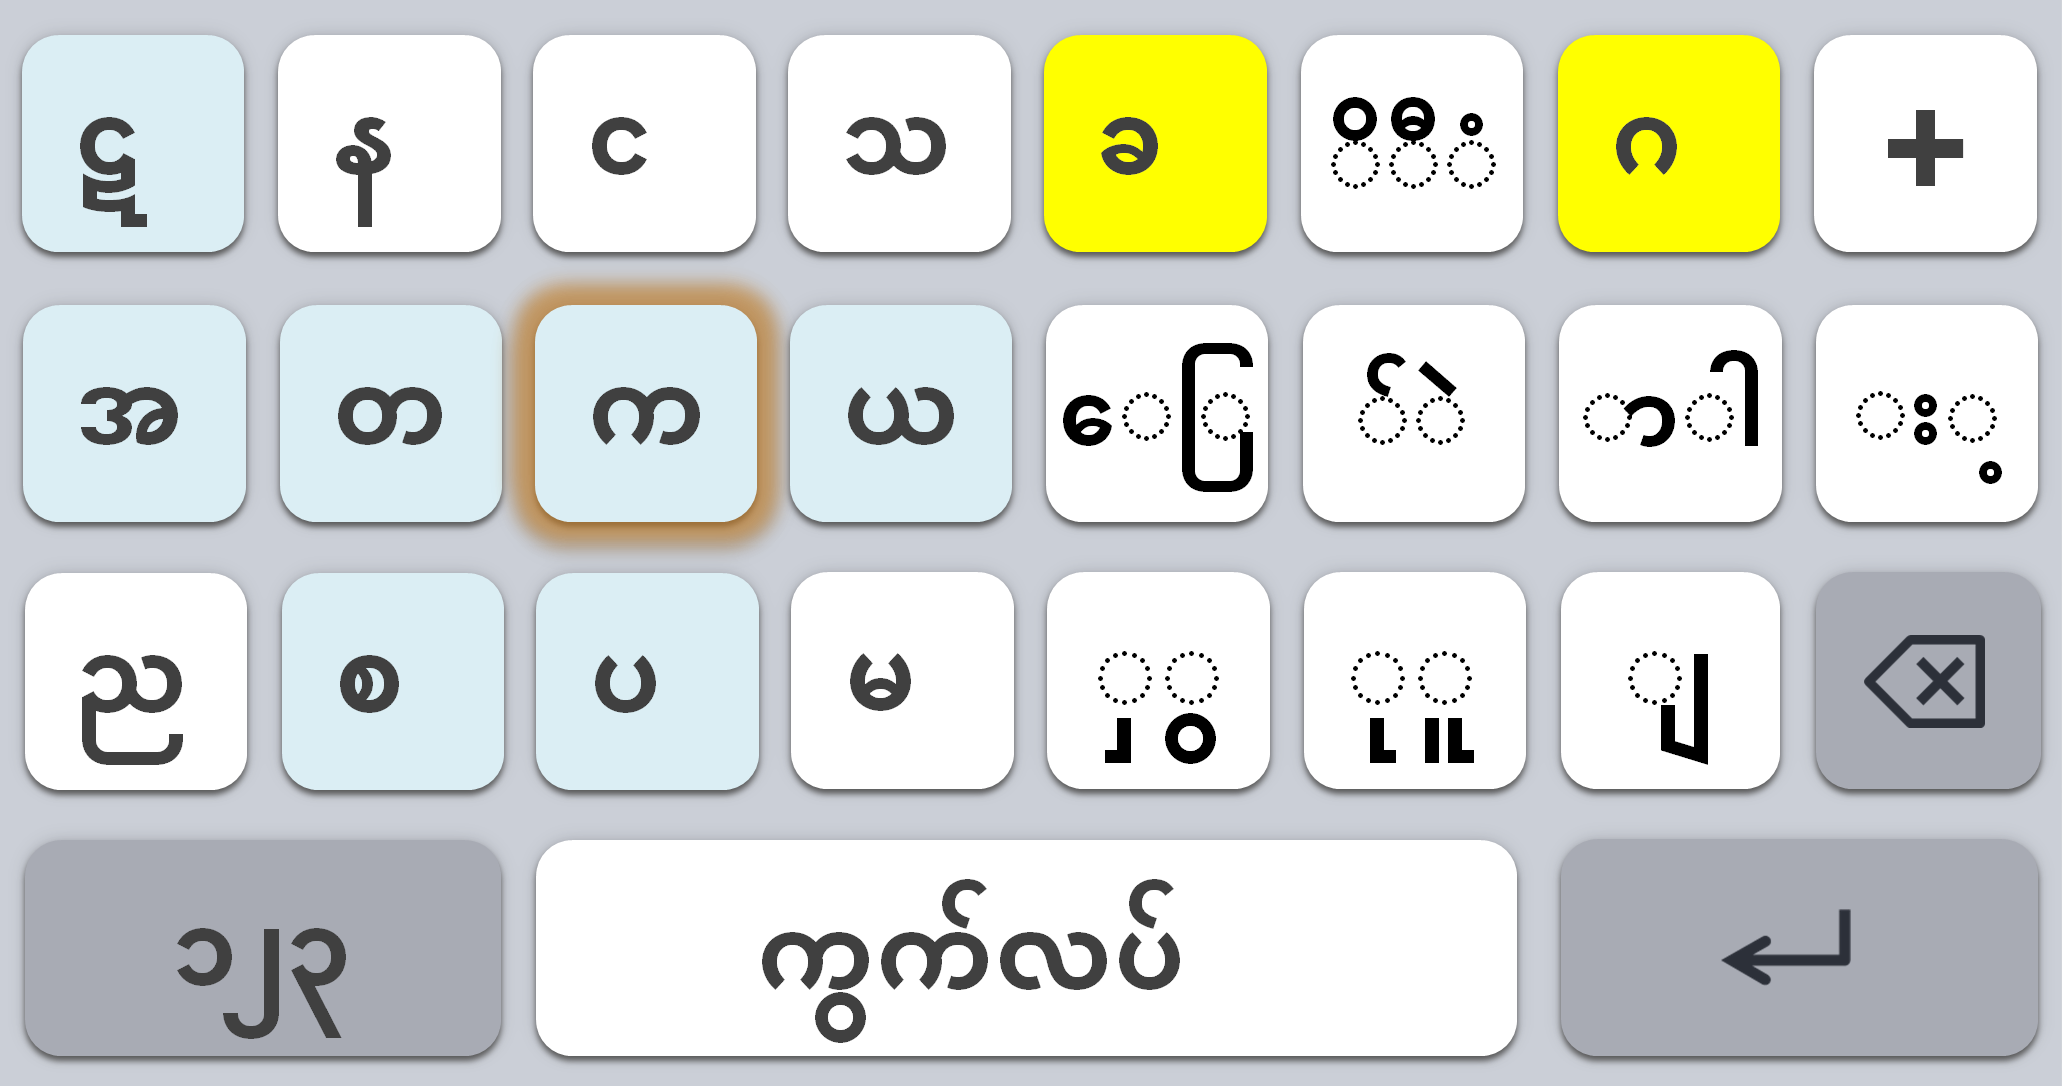
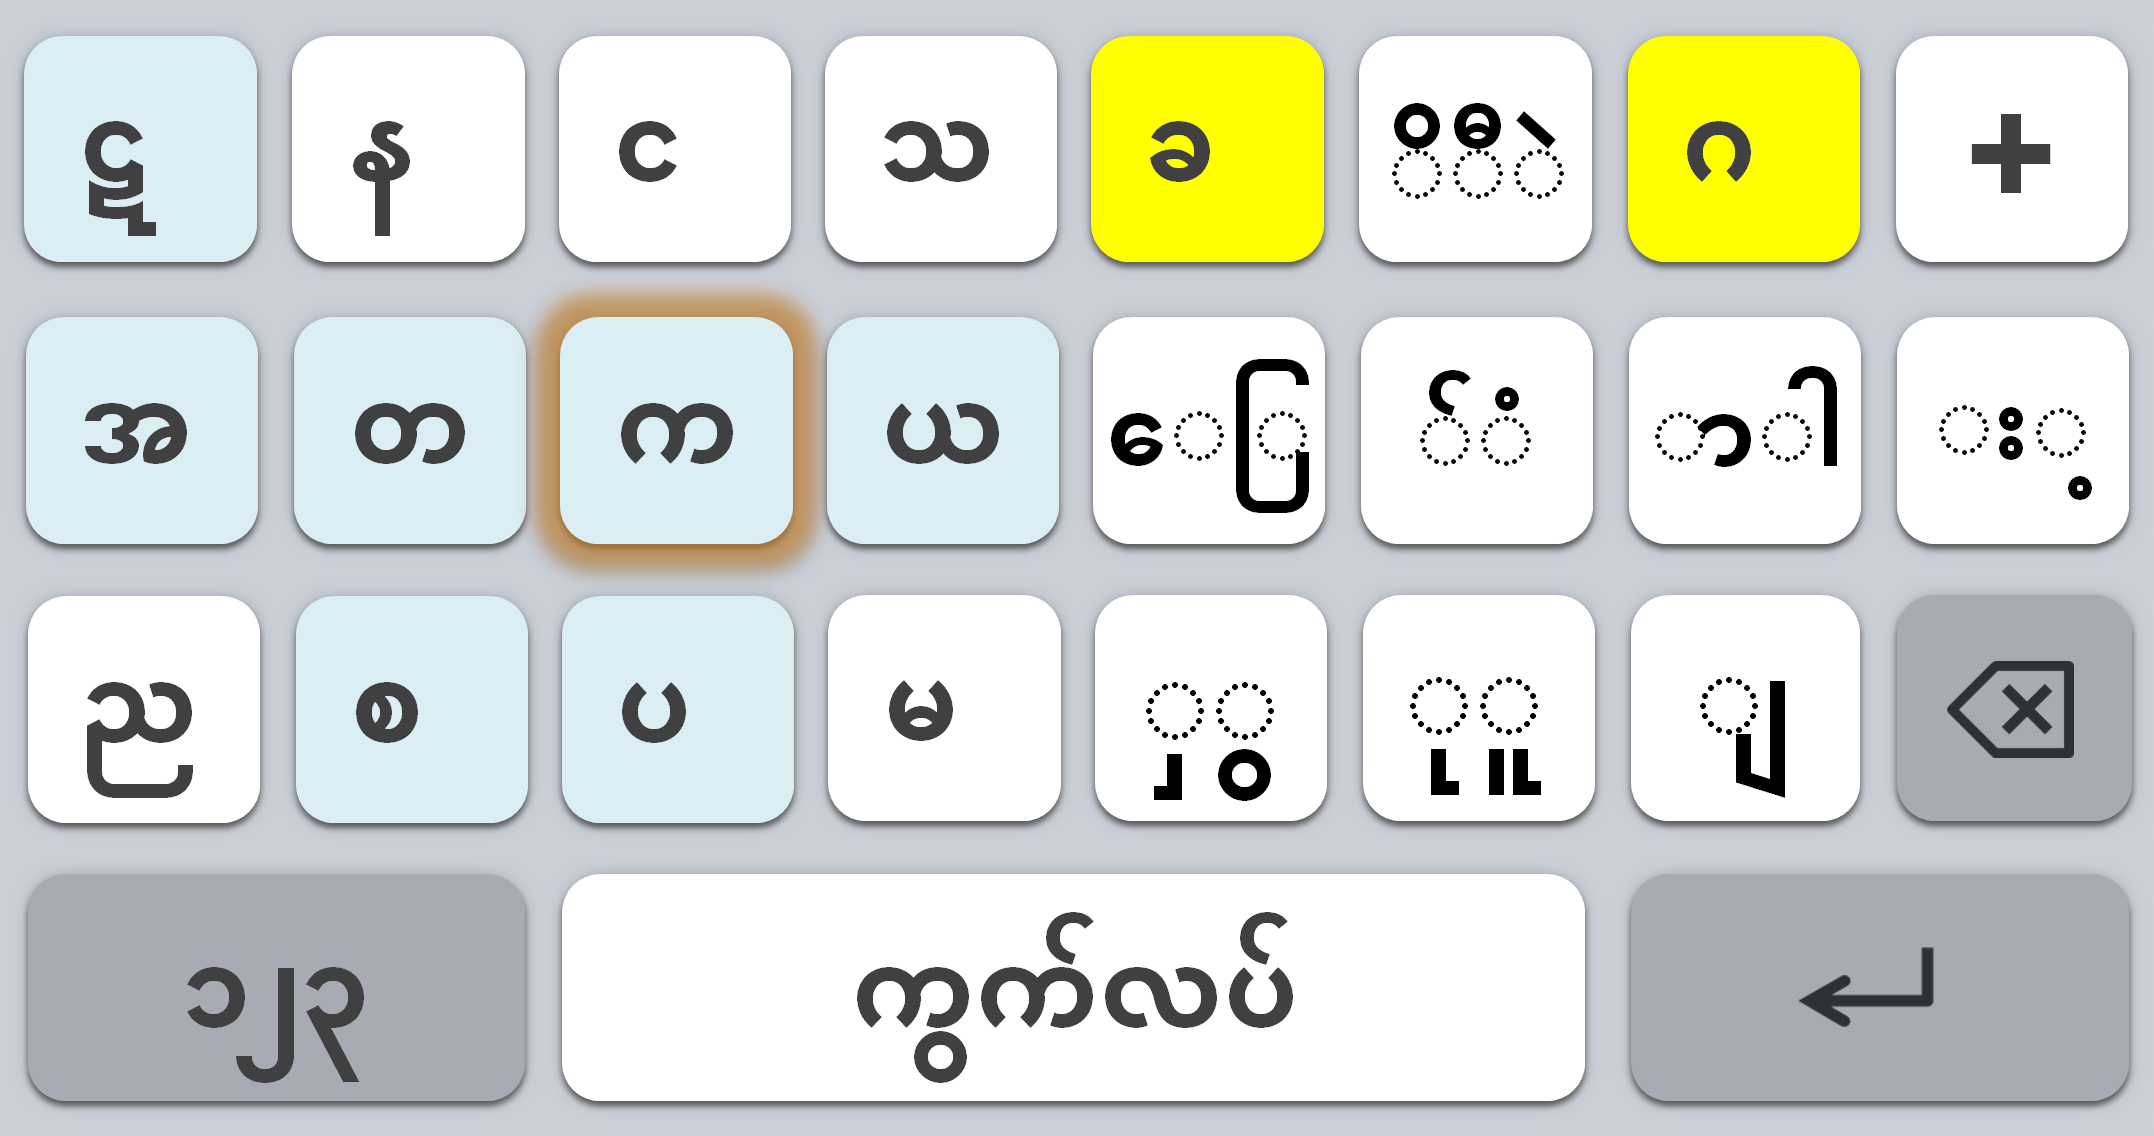
Add files via upload

diff --git a/pc_demo_windows.html b/pc_demo_windows.html
@@ -165,7 +165,7 @@ const stepMapRow = {
 };
 const nasalKeys = { "w": "န", "e": "င", "r": "သ", "z": "ည", "v": "မ" }; // v키 복구됨
 const multiTapMap = {
-    "i": ["ိ", "ီ", "ံ"], "j": ["ေ", "ြ"], "k": ["်", "ဲ"], "l": ["ာ", "ါ"],
+    "i": ["ိ", "ီ", "ဲ"], "j": ["ေ", "ြ"], "k": ["်", "ံ"], "l": ["ာ", "ါ"],
     ";": ["း", "့"], "m": ["ှ", "ွ"], ",": ["ု", "ူ"]
 };
 const plusVowels = { "u": "ဤ", "i": "ဣ", "j": "ဧ", "k": "ဩ", "l": "ဪ", "m": "ဦ", ",": "ဥ" };

diff --git a/mobile_demo.html b/mobile_demo.html
@@ -83,7 +83,7 @@ const stepMapRow = {
 };
 const nasalKeys = { "န": "န", "င": "င", "သ": "သ", "မ": "မ", "ည": "ည" };
 const multiTapMap = {
-    "i": ["ိ", "ီ", "ံ"], "j": ["ေ", "ြ"], "k": ["်", "ဲ"], "l": ["ာ", "ါ"],
+    "i": ["ိ", "ီ", "ဲ"], "j": ["ေ", "ြ"], "k": ["်", "ံ"], "l": ["ာ", "ါ"],
     ";": ["း", "့"], "m": ["ှ", "ွ"], ",": ["ု", "ူ"]
 };
 const plusVowels = { "u": "ဤ", "i": "ဣ", "j": "ဧ", "k": "ဩ", "l": "ဪ", "m": "ဦ", ",": "ဥ" };
